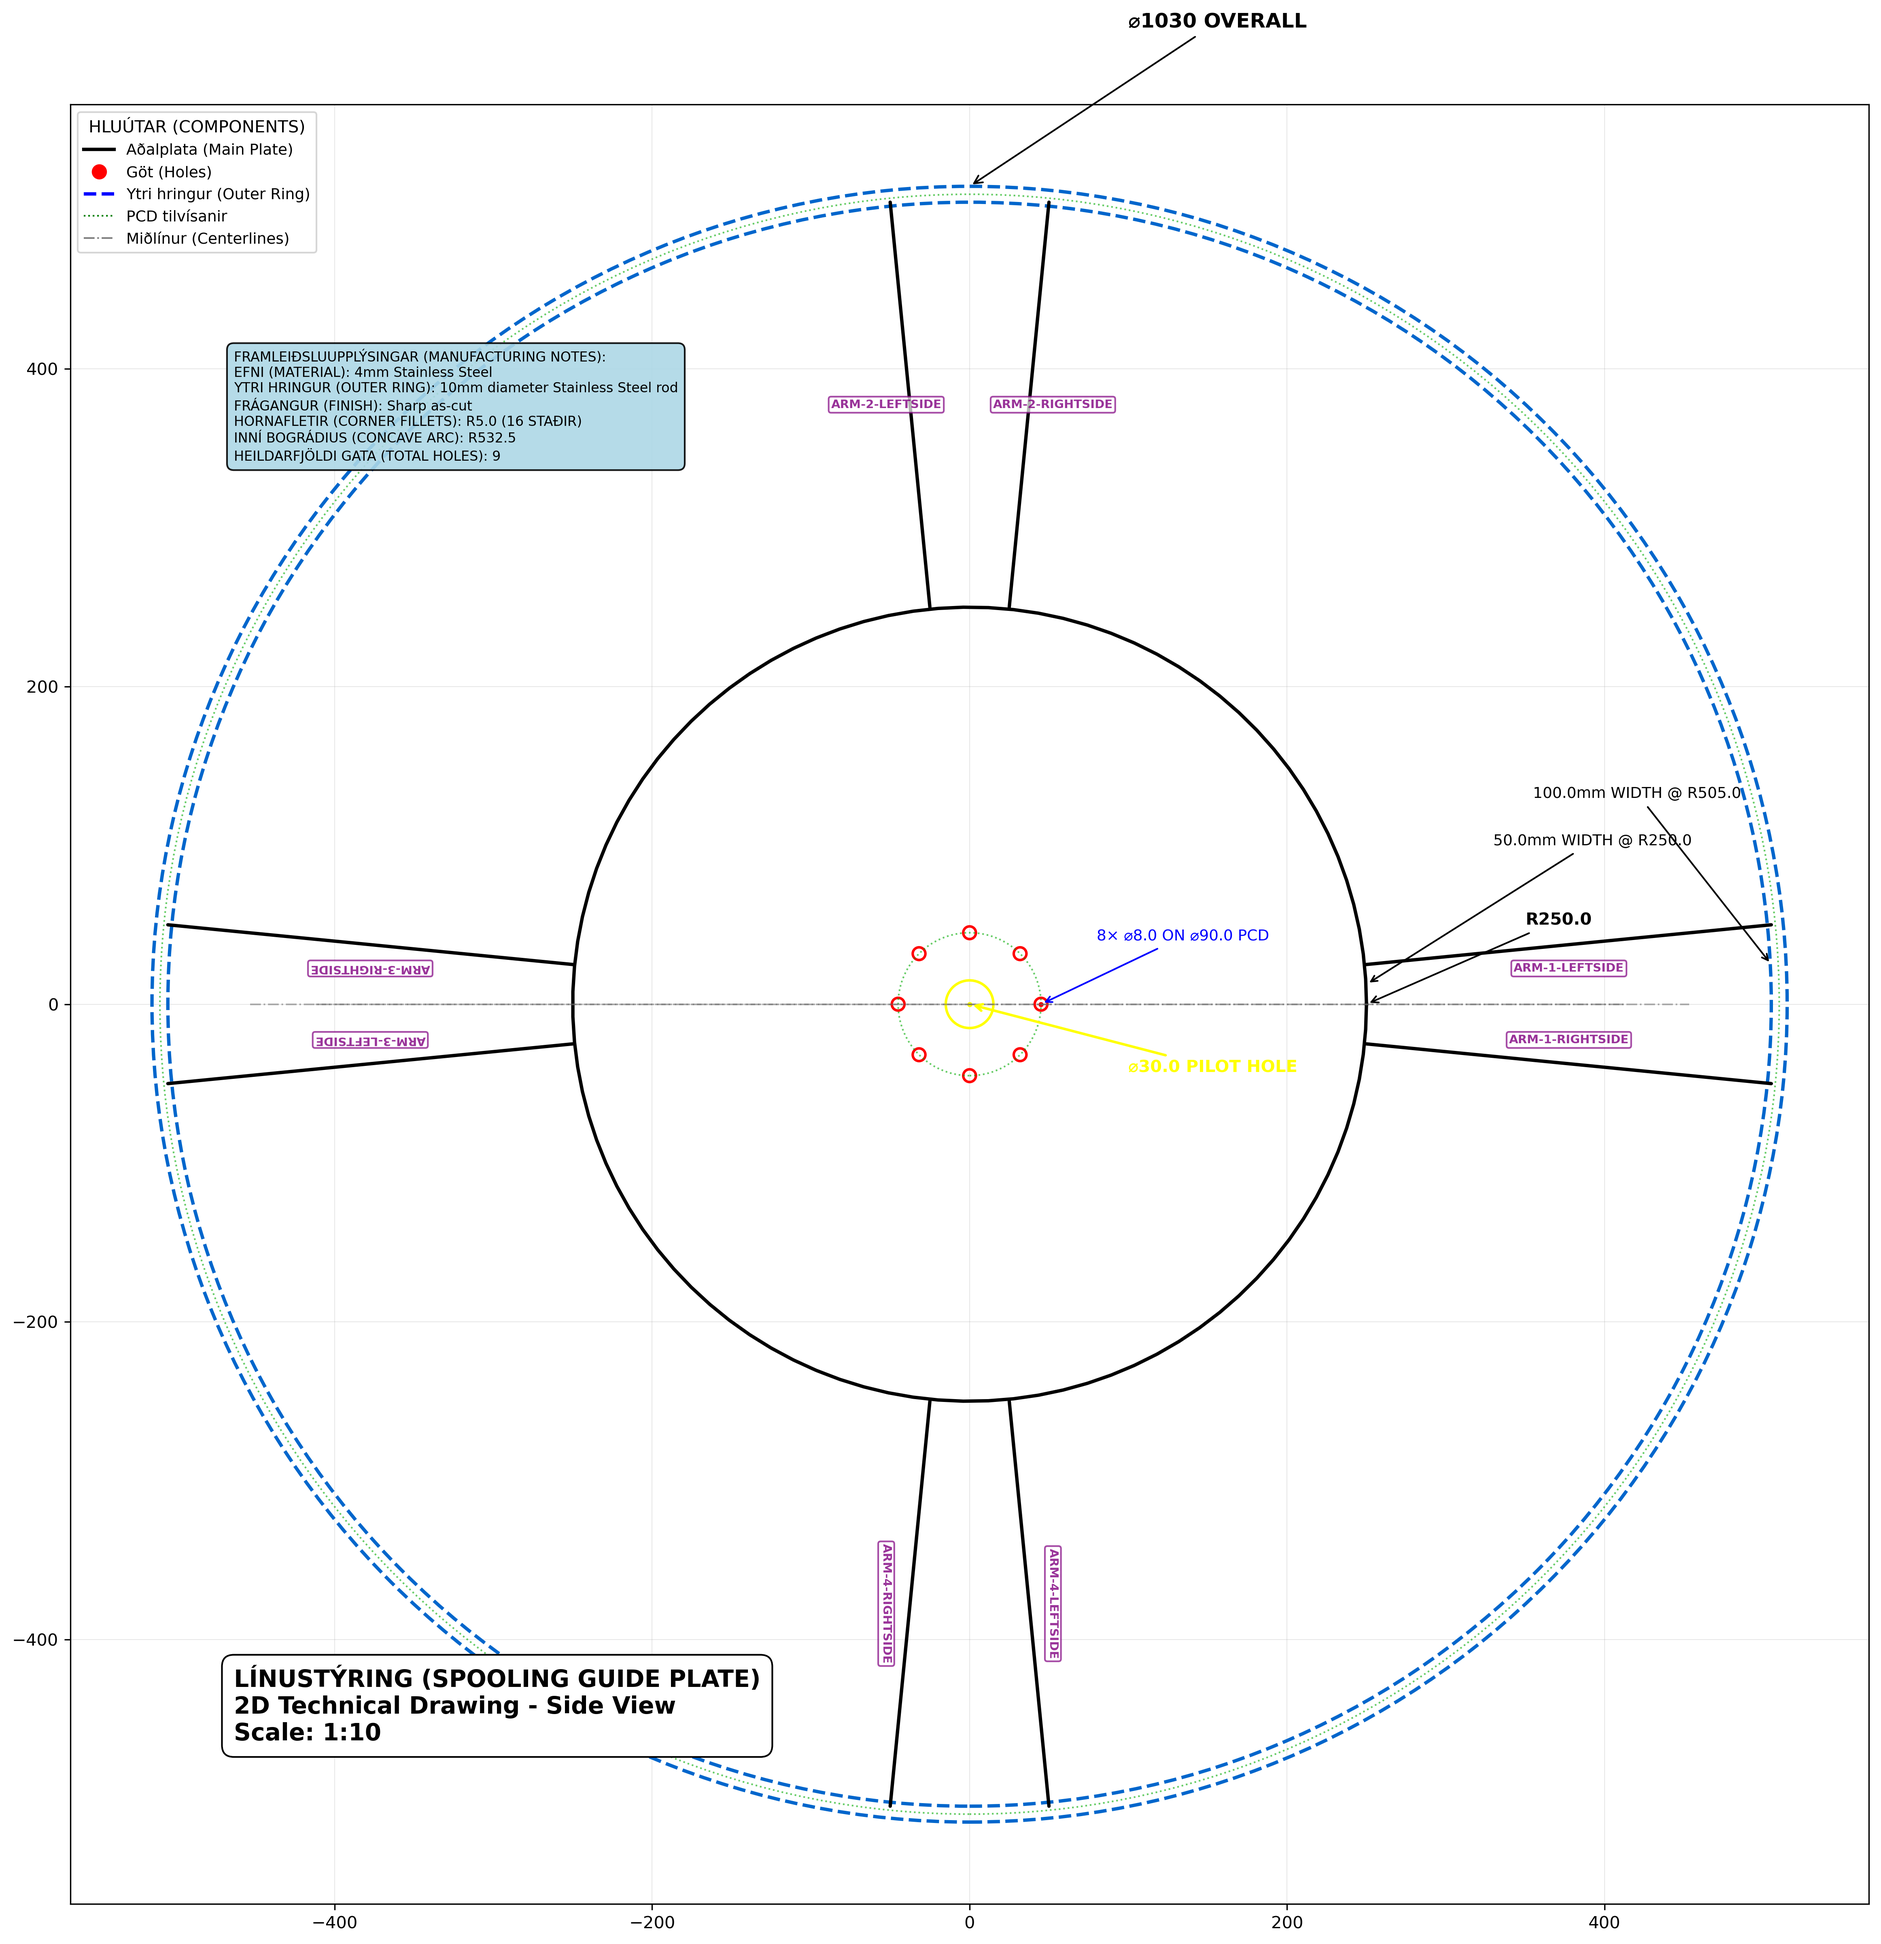
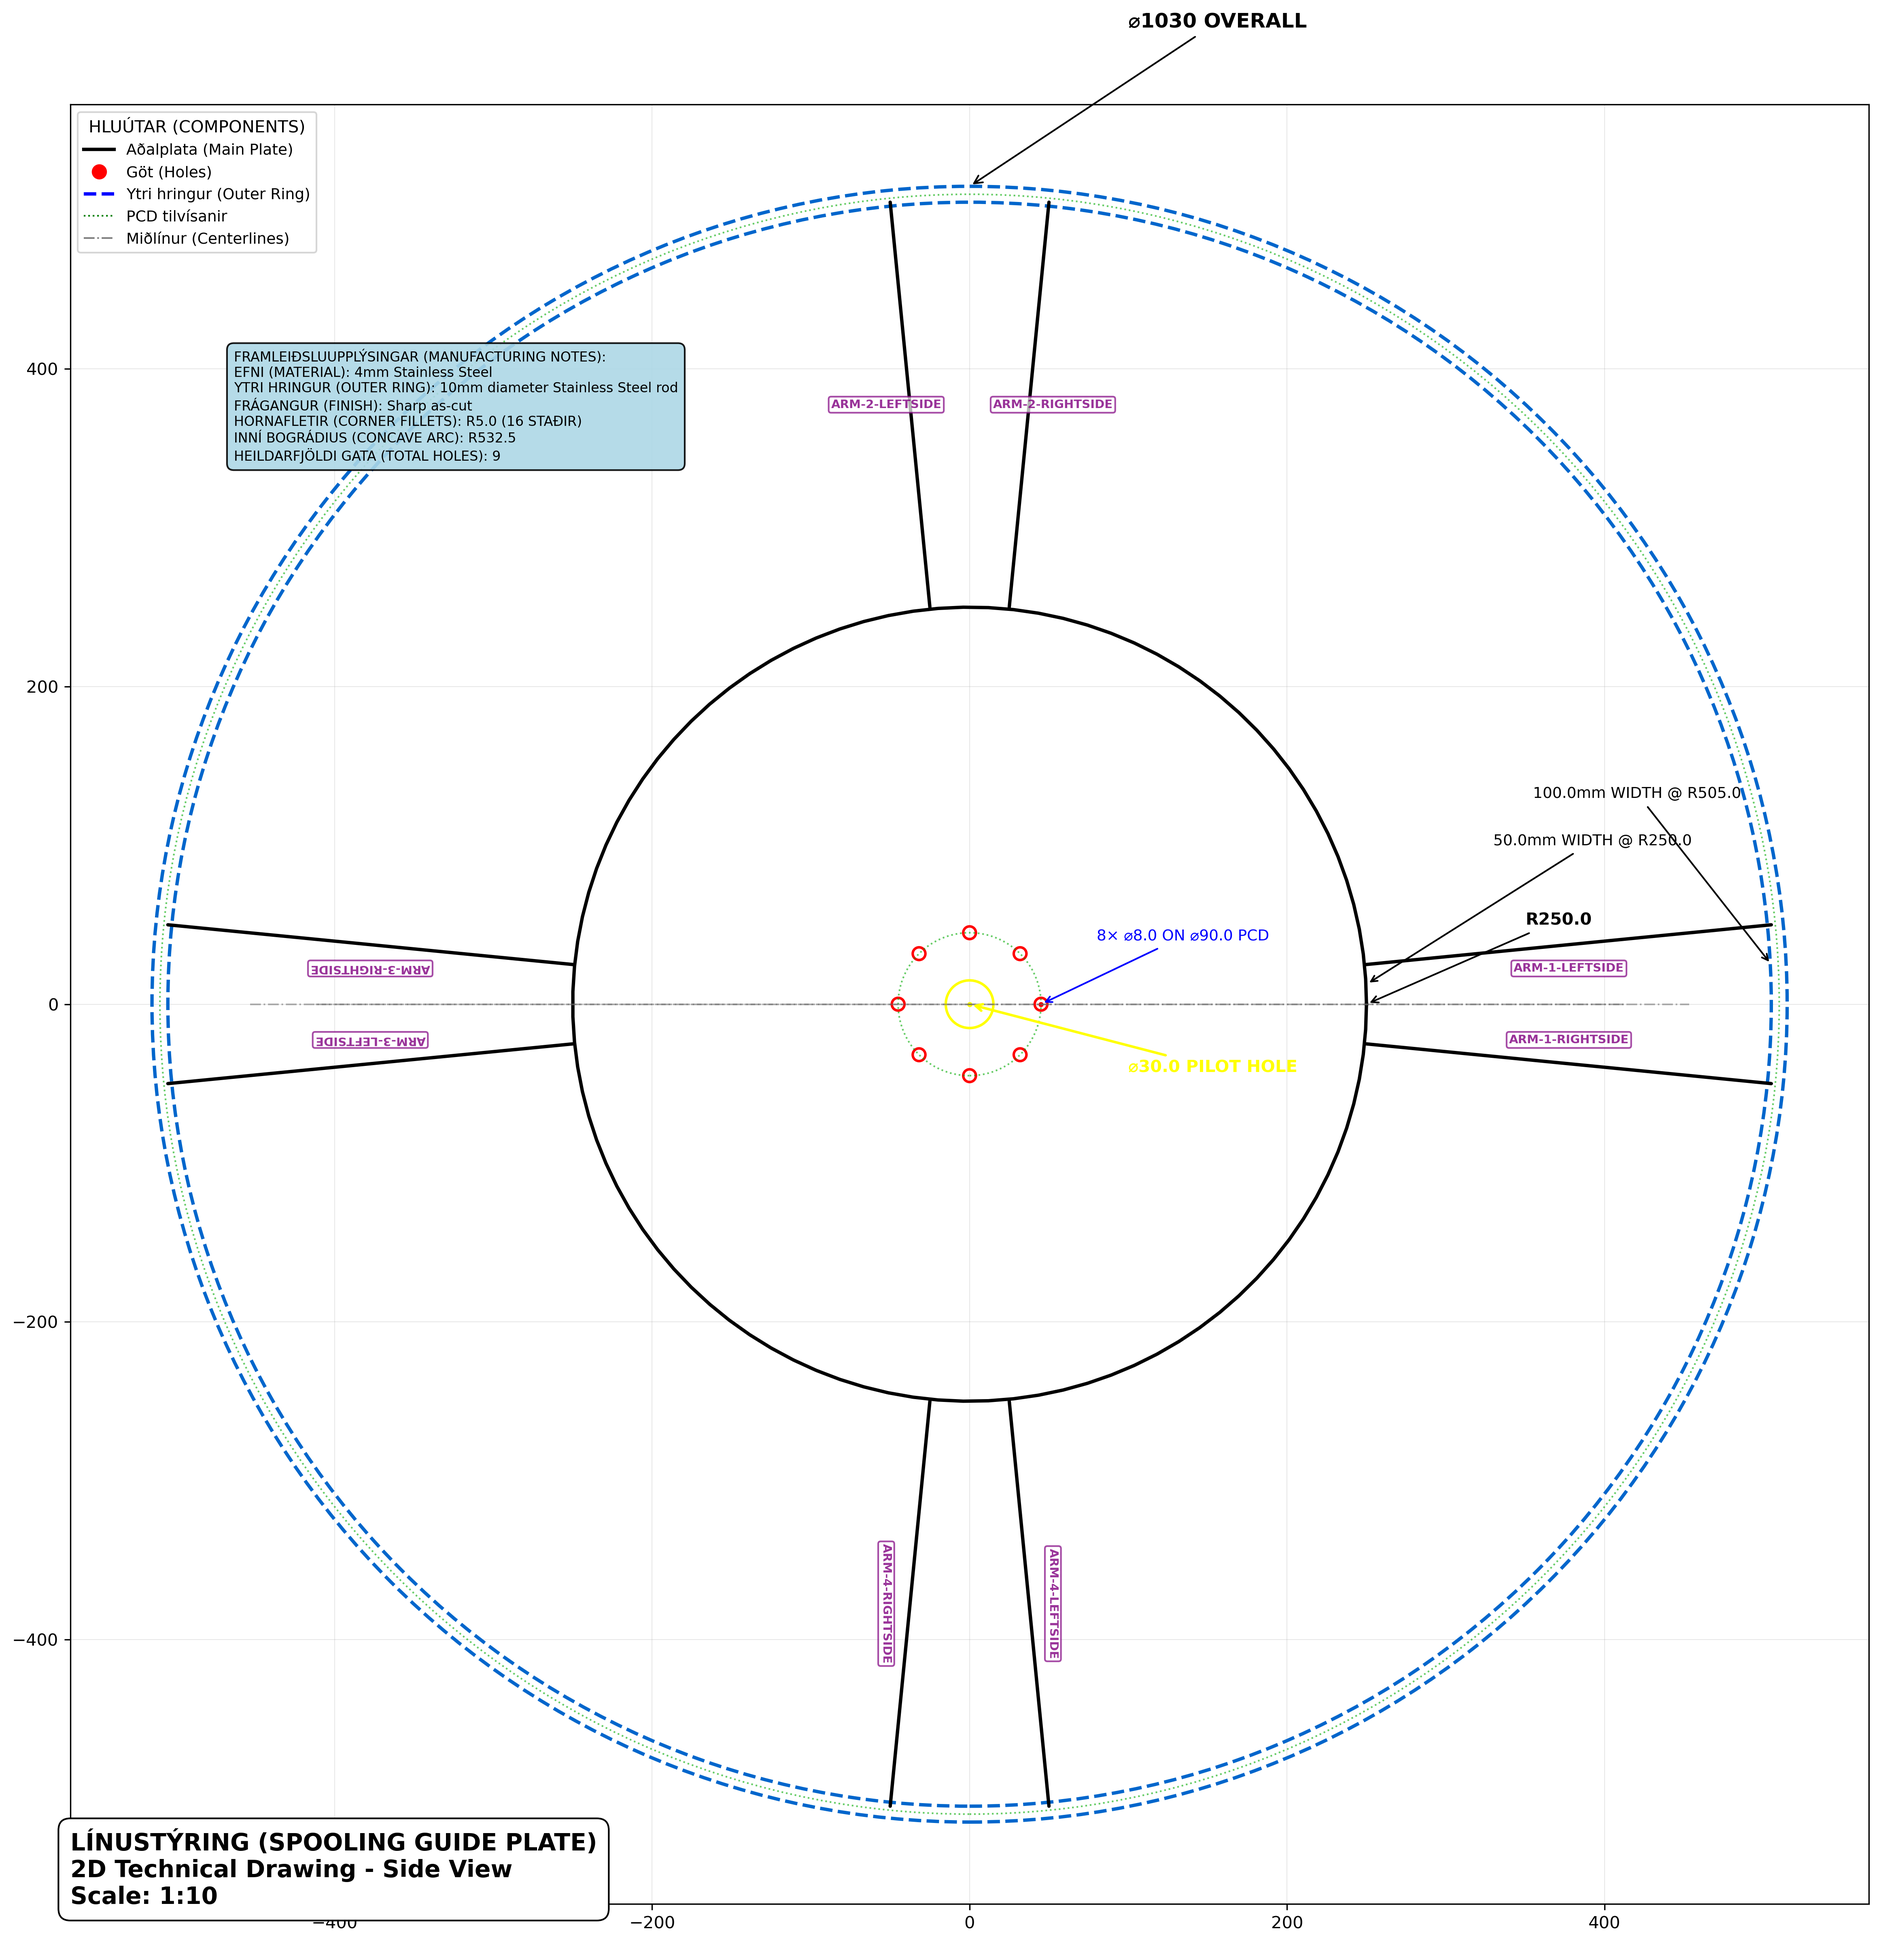
Move title block even further down and left to extreme corner
- Increased title_x multiplier from -0.9 to -1.1 (even further left)
- Increased title_y multiplier from -0.9 to -1.1 (even further down)
- Title block now positioned beyond drawing boundary in extreme lower-left
- Maximum possible separation from main drawing geometry
- Title block placed in outermost corner position

Changed region(s): [[0.1248, 0.8434, 0.4056, 0.9059], [0.0312, 0.9371, 0.312, 0.9996]]

diff --git a/src/spooling_guide/annotations.py b/src/spooling_guide/annotations.py
@@ -134,8 +134,8 @@ def add_title_block(ax):
         ax: Matplotlib axes object
     """
     overall_dims = geom.calculate_overall_dimensions()
-    title_x = -overall_dims['overall_radius'] * 0.9  # Further left
-    title_y = -overall_dims['overall_radius'] * 0.9  # Further down
+    title_x = -overall_dims['overall_radius'] * 1.1  # Even further left
+    title_y = -overall_dims['overall_radius'] * 1.1  # Even further down
     
     ax.text(title_x, title_y, 
             f"{spec.DRAWING_TITLE}\n{spec.DRAWING_VIEW_NAME}\nScale: {spec.DRAWING_SCALE}",
